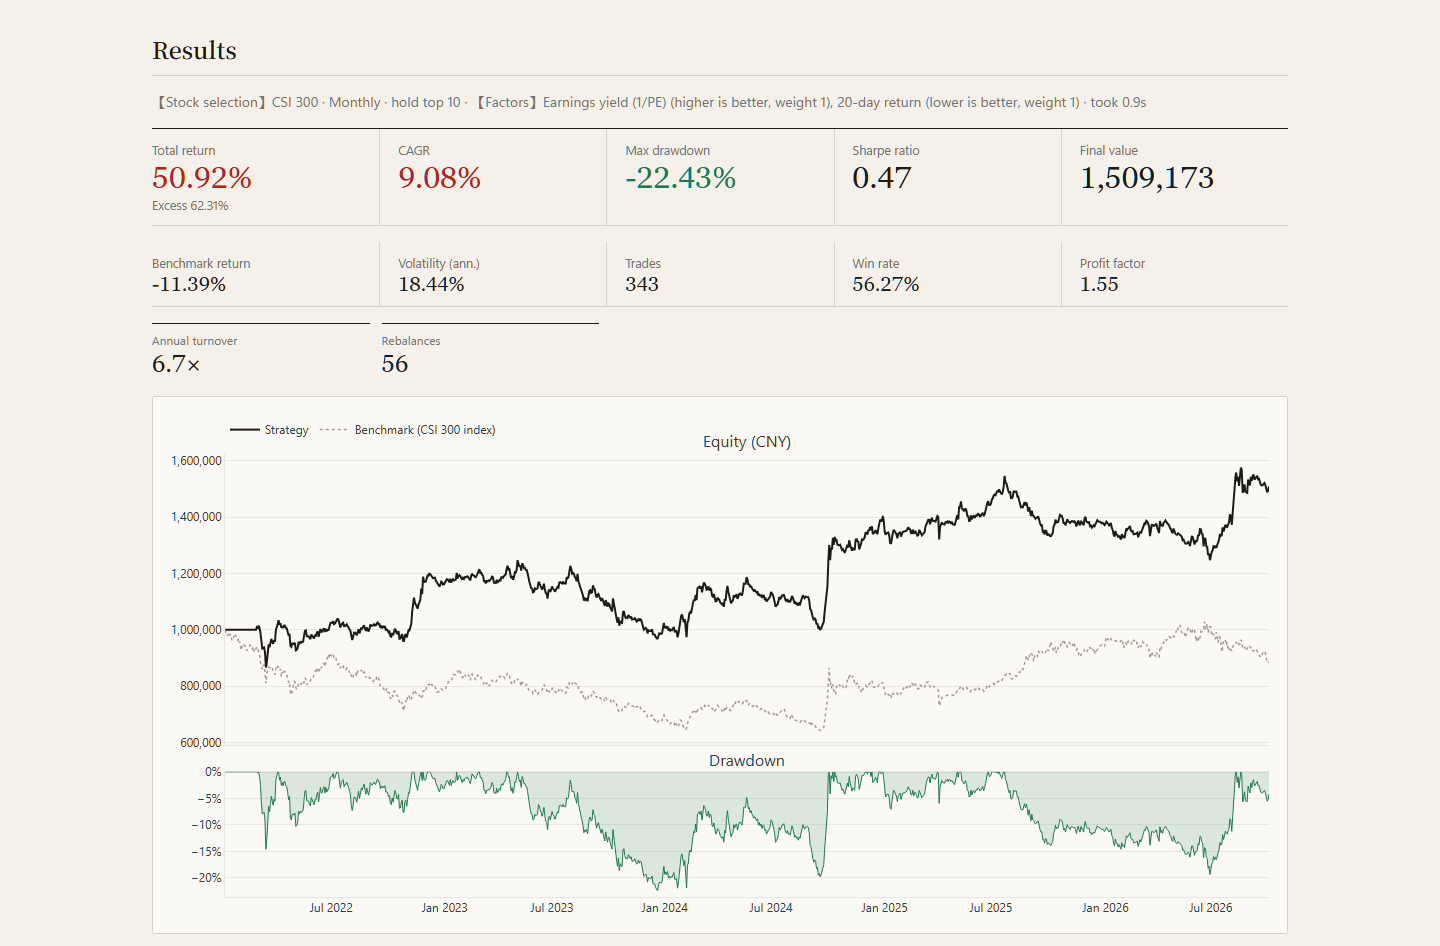
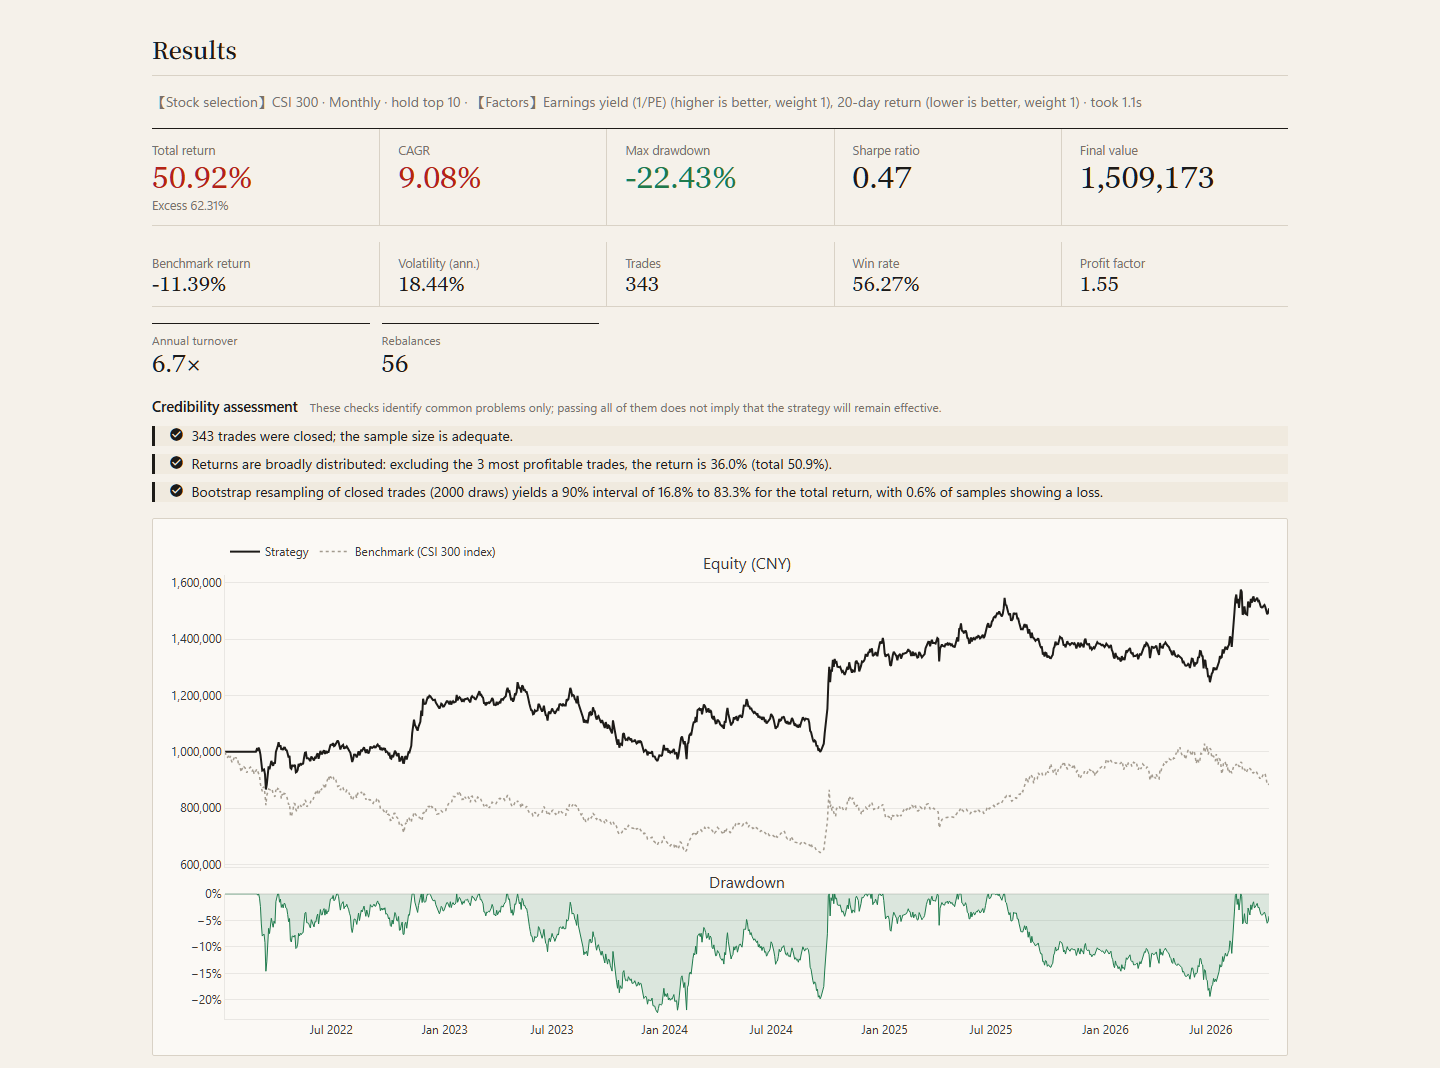
README：资产配置、回测可信度检查、模拟盘异常提示；重新生成截图

diff --git a/tools/readme_server.py b/tools/readme_server.py
@@ -1,8 +1,9 @@
 """
 README 截图用的界面服务：python tools/readme_server.py zh|en light|dark 端口
 - 界面偏好、模拟账户都放在临时目录，不读写你自己的偏好、历史和模拟账户
-- 预先放入：一次双均线回测（回测页、首页「继续上次的工作」）、两条最近的报告、一个运行了一段时间的模拟账户
-- 行情数据读本机数据库（只读）：需要 510300 后复权日线和沪深300选股数据
+- 预先放入：一次双均线回测（回测页、首页「继续上次的工作」）、两条最近的报告、一个运行了一段时间的模拟账户、
+  一次资产配置（风险测评 C3、默认候选）
+- 行情数据读本机数据库（只读）：需要 510300 后复权日线、沪深300选股数据，以及资产配置默认候选的 ETF 日线
 """
 import datetime as dt
 import os
@@ -25,6 +26,7 @@ from gui import state, history  # noqa: E402
 from simplequant import strategies  # noqa: E402
 from simplequant.data import library  # noqa: E402
 from simplequant.engine import run_backtest, BrokerConfig  # noqa: E402
+from simplequant.engine.credibility import check_backtest  # noqa: E402
 from simplequant.paper import account as account_mod  # noqa: E402
 from simplequant.paper import create_account, run_account, load_calendar  # noqa: E402
 from ui import shared  # noqa: E402
@@ -44,7 +46,8 @@ broker = BrokerConfig(cash=100000, commission=0.00005, min_commission=0, stamp_d
 res = run_backtest(prices, cls, params, broker, with_panels=True)
 name = "双均线交叉" if ZH else "SMA crossover"
 state.STATE["bt"] = dict(result=res, title=("模板：双均线" if ZH else "Template: SMA cross", ["510300"], "1d"),
-                         spec=spec, broker=broker, name=name, time="2026-09-30 21:14")
+                         spec=spec, broker=broker, name=name, time="2026-09-30 21:14",
+                         checks=check_backtest(res.metrics, res.trades))
 for key in ("bt", "opt"):
     state.STATE[f"{key}_ids"] = [ID]
     state.STATE[f"{key}_range"] = rng
@@ -58,6 +61,23 @@ acc = create_account("沪深300ETF 双均线" if ZH else "CSI 300 ETF · SMA", {
 history_df = DF.loc[:"2026-09-30"]
 for end in ("2026-03-31", "2026-06-30", "2026-09-30"):        # 分几次推进，和每天运行的效果一样
     run_account(acc, cal, prices={"510300": history_df.loc[:end]})
+
+
+# ---- 资产配置：平衡型（可承受回撤 10%），默认候选 ----
+from simplequant import allocation  # noqa: E402
+allocation.ROOT = TMP / "allocation"
+answers = {q["key"]: min(2, len(q["options"]) - 1) for q in allocation.QUESTIONS}
+answers["loss"] = 1
+prof = allocation.evaluate(answers)
+allocation.save_profile(prof)
+al_cfg = allocation.load_config()
+al_sleeves = [s for s in allocation.all_sleeves(al_cfg) if s["id"] in al_cfg["enabled"]]
+al_R, al_err = allocation.load_returns(al_sleeves)
+al_used = [s for s in al_sleeves if s["id"] in al_R.columns]
+al_sug = allocation.suggest(prof.level, prof.max_dd, al_used, al_R, al_cfg["rebalance"])
+state.STATE["al"] = {"answers": dict(answers), "result": dict(
+    R=al_R, sleeves=al_used, errors=al_err, profile=prof, rebalance=al_cfg["rebalance"], suggestion=al_sug,
+    weights=dict(al_sug["weights"]), res=al_sug["result"], shifted=al_sug["shifted"], manual=False)}
 
 
 # 数据库里的行情只到某一天：让模拟盘页以这天为「最新应有数据」，不显示「数据未更新」的提示

diff --git a/tools/readme_assets.py b/tools/readme_assets.py
@@ -76,8 +76,10 @@ SHOTS = {
               {"zh": (None, "每日自动运行", 0, -24), "en": (None, "Run automatically every day", 0, -24)}),
     "selection": ("/selection", [{"zh": "开始回测", "en": "Run backtest"}],
                   {"zh": ("回测结果", "每期选股", 32, -16), "en": ("Results", "Picks per period", 32, -16)}),
+    "allocation": ("/allocation", [],
+                   {"zh": ("参考配置", "权重与贡献", 32, -16), "en": ("Reference allocation", "Weights and contributions", 32, -16)}),
 }
-WAIT = {"/selection": 30, "/optimize": 8}
+WAIT = {"/selection": 30, "/optimize": 8, "/allocation": 8}
 CLICK_WAIT = {"/optimize": 45, "/selection": 40, "/paper": 3}
 
 

diff --git a/README.en.md b/README.en.md
@@ -9,7 +9,7 @@
 
 <p align="center">Desktop app for Windows / macOS / Linux · Backtrader engine · Open source under GPLv3</p>
 
-SimpleQuant is a low-code quant backtesting tool for China A-shares, covering stocks, ETFs (including bond ETFs) and convertible bonds. You can go from data to strategy, backtest, parameter optimization and paper trading without writing code. If you prefer, you can also write Python strategies, run multi-factor selection (stocks or convertibles), or export strategies to JoinQuant, MyQuant (掘金) and QMT for cross-checking.
+SimpleQuant is a low-code quant backtesting tool for China A-shares, covering stocks, ETFs (including bond ETFs) and convertible bonds. You can go from data to strategy, backtest, parameter optimization and paper trading without writing code. If you prefer, you can also write Python strategies, run multi-factor selection (stocks or convertibles), build an allocation across asset classes from a risk assessment, or export strategies to JoinQuant, MyQuant (掘金) and QMT for cross-checking.
 
 > **Disclaimer**: This software is for learning and research only and is not investment advice. Backtest and paper-trading results do not guarantee future returns; any live trading based on them is at your own risk.
 
@@ -18,14 +18,15 @@ SimpleQuant is a low-code quant backtesting tool for China A-shares, covering st
   <img src="docs/images/backtest-en.png" alt="Backtest report">
 </picture>
 
-## Two workflows
+## Three workflows
 
-The step bar at the top of the app follows these two workflows, and each step suggests what to do next.
+The step bar at the top of the app follows these three workflows, and each step suggests what to do next.
 
 | Workflow | Steps |
 |---|---|
 | **Timing** | 01 Data — 02 Strategy — 03 Backtest — 04 Optimize — 05 Paper |
 | **Stock selection** | 01 Data — 02 Selection — 03 Paper |
+| **Allocation** | 01 Data — 02 Allocation |
 
 <img src="docs/images/home-en.png" alt="Home">
 
@@ -40,17 +41,17 @@ Four ways to build a strategy:
 - **Write Python**: write a strategy class; board lots, T+1 and trading costs still apply, and its parameters can be optimized.
 
 ### 03 · Backtest
-Multiple assets (capital split equally), custom date range and costs, and a choice of dividend handling (reinvest, or cash dividends with dividend tax). The report opens with a plain-language summary, followed by return, CAGR, Sharpe, drawdown, win rate and profit factor, plus the equity curve, trades on the price chart, P&L per trade and the full fill list; the native Backtrader chart is also available.
+Multiple assets (capital split equally), custom date range and costs, and a choice of dividend handling (reinvest, or cash dividends with dividend tax). The report opens with a plain-language summary, followed by return, CAGR, Sharpe, drawdown, win rate and profit factor, plus the equity curve, trades on the price chart, P&L per trade and the full fill list; the native Backtrader chart is also available. The report also includes a **credibility assessment**: whether there are enough trades, whether returns are concentrated in a few trades, and a bootstrap range of returns.
 
 A-share rules: 100-share board lots, T+1 by product type (stocks and domestic equity ETFs are T+1; bond, money-market, gold, commodity and cross-border ETFs and convertibles are T+0, detected from the code and name), stamp duty on sells, minimum commission and slippage. Signals form at a bar's close and fill at the next bar's open.
 
 ### 04 · Optimize
-Grid search over any numeric parameter (up to 3 parameters and 500 combinations, run in parallel), with a heatmap of how results vary; the earlier part of the data picks parameters and the later part checks them out of sample, with an overfitting warning. Walk-forward optimization stitches together a fully out-of-sample equity curve.
+Grid search over any numeric parameter (up to 3 parameters and 500 combinations, run in parallel), with a heatmap of how results vary; the earlier part of the data picks parameters and the later part checks them out of sample, with overfitting warnings (too many combinations tested, most combinations losing money, markedly weaker out-of-sample results). Walk-forward optimization stitches together a fully out-of-sample equity curve.
 
 <img src="docs/images/optimize-en.png" alt="Optimization">
 
 ### 05 · Paper trading
-Open a simulated account for any saved strategy — no brokerage account needed. After each trading day's close it updates data, advances the account with **the same code as the backtest**, and lists the trades for the next open. A scheduled task (Windows Task Scheduler, macOS launchd or a Linux systemd timer) can run it automatically.
+Open a simulated account for any saved strategy — no brokerage account needed. After each trading day's close it updates data, advances the account with **the same code as the backtest**, and lists the trades for the next open. A scheduled task (Windows Task Scheduler, macOS launchd or a Linux systemd timer) can run it automatically; the home page warns if no schedule is set, the last run failed or the data has not been updated for several days.
 
 <img src="docs/images/paper-en.png" alt="Paper trading">
 
@@ -58,6 +59,11 @@ Open a simulated account for any saved strategy — no brokerage account needed.
 Using free BaoStock data, score the **historical constituents** of the CSI 300 and CSI 500 by value, momentum, low volatility, quality, growth and other factors, and rebalance on a schedule; or pick from **all convertible bonds** (including delisted ones) by double-low, premium and other factors. Includes factor research (Rank IC, quantile backtests, factor correlation), industry/size neutralization, IC/ICIR weighting, custom factors and walk-forward optimization; selection strategies can be paper traded as well.
 
 <img src="docs/images/selection-en.png" alt="Stock selection">
+
+### Asset allocation
+A risk assessment modelled on broker suitability questionnaires (C1 conservative to C5 aggressive, with a maximum tolerable drawdown) leads to a reference allocation across cash, Treasury ETFs, broad-market ETFs, a gold ETF and your own timing or selection strategies: the risk level sets the class mix, risk parity splits weight within each class, and if the portfolio's historical drawdown exceeds the tolerance, weight moves to defensive assets automatically. Portfolio backtests support several rebalancing rules and show each component's return and risk contribution and the correlations; weights can be edited and re-tested.
+
+<img src="docs/images/allocation-en.png" alt="Asset allocation">
 
 ### Export
 - **Python script**: runs on its own, with fills identical to the SimpleQuant backtest.
@@ -146,6 +152,16 @@ PyInstaller cannot cross-compile, so each system's version is built on that syst
 </details>
 
 <details>
+<summary><b>Asset allocation</b></summary>
+
+- **Risk assessment**: 10 single-choice questions (age, income, share of assets to invest, income stability, experience, riskiest product held, horizon, objective, largest tolerable loss, reaction to a 20% fall). The total score's position between the minimum and maximum maps to C1-C5 in five equal bands; "no loss at all" caps the rating at C1 and a horizon under one year caps it at C2. The maximum tolerable drawdown has five bands: 3%, 10%, 20%, 35% and 50%.
+- **Candidates**: cash (a fixed annual rate), buy-and-hold ETFs, a timing strategy on an asset, or a saved selection strategy. Built-in candidates are cash, a Treasury ETF (511010), a 10-year Treasury ETF (511260), CSI 300 and CSI 500 ETFs and a gold ETF (518880); missing data can be downloaded with one click. Each candidate's risk grade R1-R5 comes from its annualized volatility (2% / 6% / 15% / 25%) and maximum drawdown (3% / 10% / 20% / 35%) over the common period, taking the higher grade; the drawdown bands match C1-C5.
+- **Reference allocation**: the risk level sets the shares of cash, bonds, equities and other assets (gold, convertibles, etc.), with missing classes redistributed proportionally; within each class, weights are inversely proportional to volatility (risk parity). Mean-variance optimization is not used because it is highly sensitive to errors in expected returns. If the portfolio's maximum drawdown over the common period exceeds the tolerance, 5% of the weight moves at a time from equities and other assets to bonds, then from bonds to cash, until the limit is met.
+- **Portfolio backtest**: component daily returns are combined by weight, with monthly, quarterly, yearly, threshold (5 percentage points) or no rebalancing; each rebalance costs 0.05% of the traded amount. An equal-weight mix of all candidates serves as the reference. Results include CAGR, volatility, maximum drawdown, Sharpe, the portfolio risk grade, return and risk contributions, correlations, and notes on the length of the common period, whether the drawdown limit holds and whether the portfolio grade exceeds the risk tolerance.
+- The drawdown limit and risk grades rely on historical data; future volatility and drawdowns may be larger. Results are for research only.
+</details>
+
+<details>
 <summary><b>Backtest charts</b></summary>
 
 - **Interactive strategy chart**: mirrors the native Backtrader chart but supports zoom, pan and linked hover: P&L per trade, price (with indicators and trades), volume and indicator panels share one time axis; quick ranges 1M/3M/6M/1Y/All; non-trading days removed. Rule strategies plot the indicator lines actually used by the rules, plus threshold reference lines.
@@ -203,12 +219,13 @@ main.py                    entry point (desktop window / --browser / --paper / -
 gui/                       UI (NiceGUI): app (routes), layout (header and step bar), pages/, components, widgets, theme
 ui/                        framework-independent parts: texts (UI strings), charts, shared (page logic)
 simplequant/data/          data sources (akshare / baostock / tdx_local / csv), local library, cash-dividend prices
-simplequant/engine/        backtest runner, A-share cost model, strategy base (lots / T+1 / dividends), metrics, optimization, walk-forward
+simplequant/engine/        backtest runner, A-share cost model, strategy base (lots / T+1 / dividends), metrics, optimization, walk-forward, credibility checks
 simplequant/strategies/    templates, rule strategies, code strategies
 simplequant/rules/         rule JSON schema, validation and descriptions
 simplequant/stocks/        stock selection: downloads, panels, factors, research, selection backtest, dividends, universe entry point
 simplequant/bonds/          convertible-bond data and panels, rates and credit spreads
-simplequant/paper/         paper trading: accounts, replay and ledger, trading calendar, scheduled task
+simplequant/paper/         paper trading: accounts, replay and ledger, trading calendar, scheduled task, health checks
+simplequant/allocation/    asset allocation: risk assessment, candidates and risk grades, reference allocation, portfolio backtest
 simplequant/export/        export: Python scripts, JoinQuant / MyQuant / QMT
 simplequant/llm/           LLM access: presets and config, Claude / OpenAI / LiteLLM adapters, natural language to rules
 simplequant/update/        automatic updates: check and download, signed manifest verification, file replacement script
